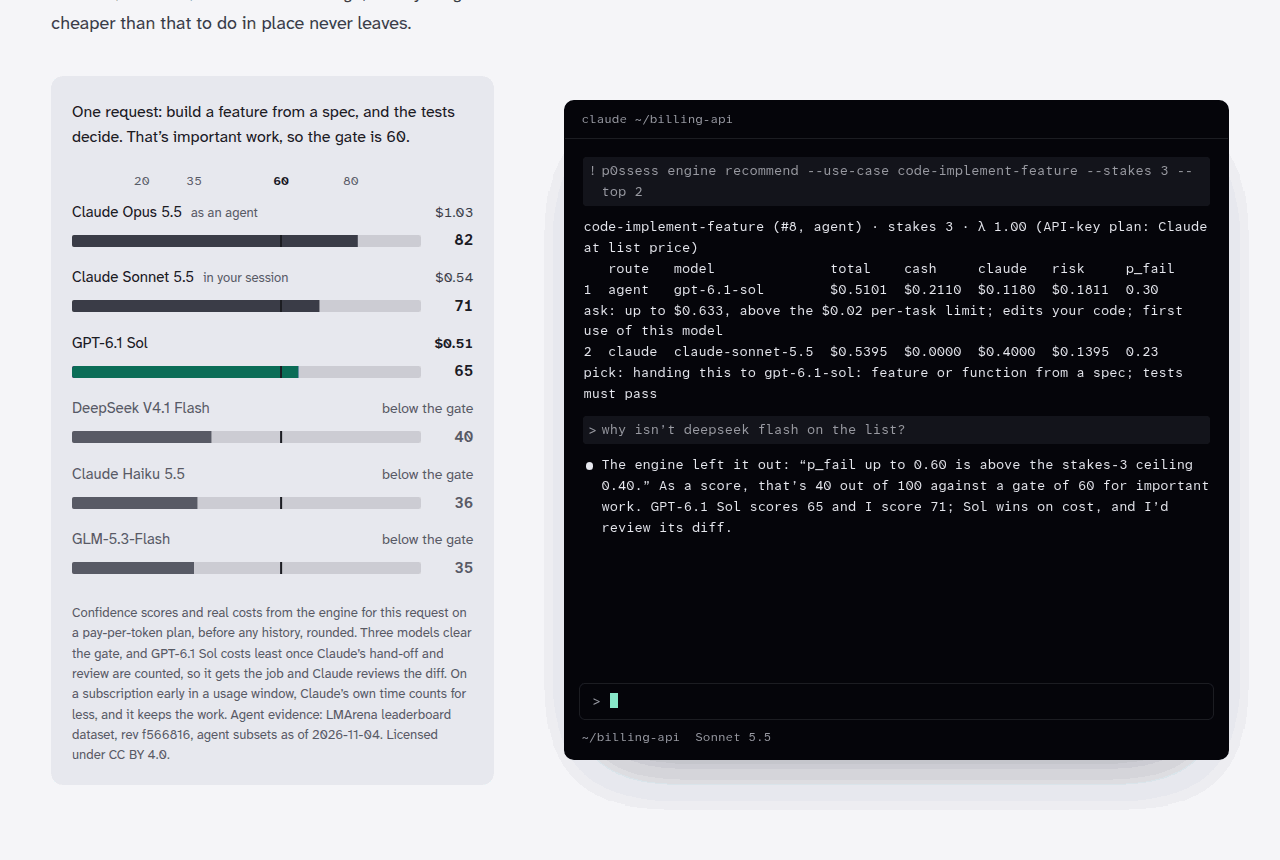
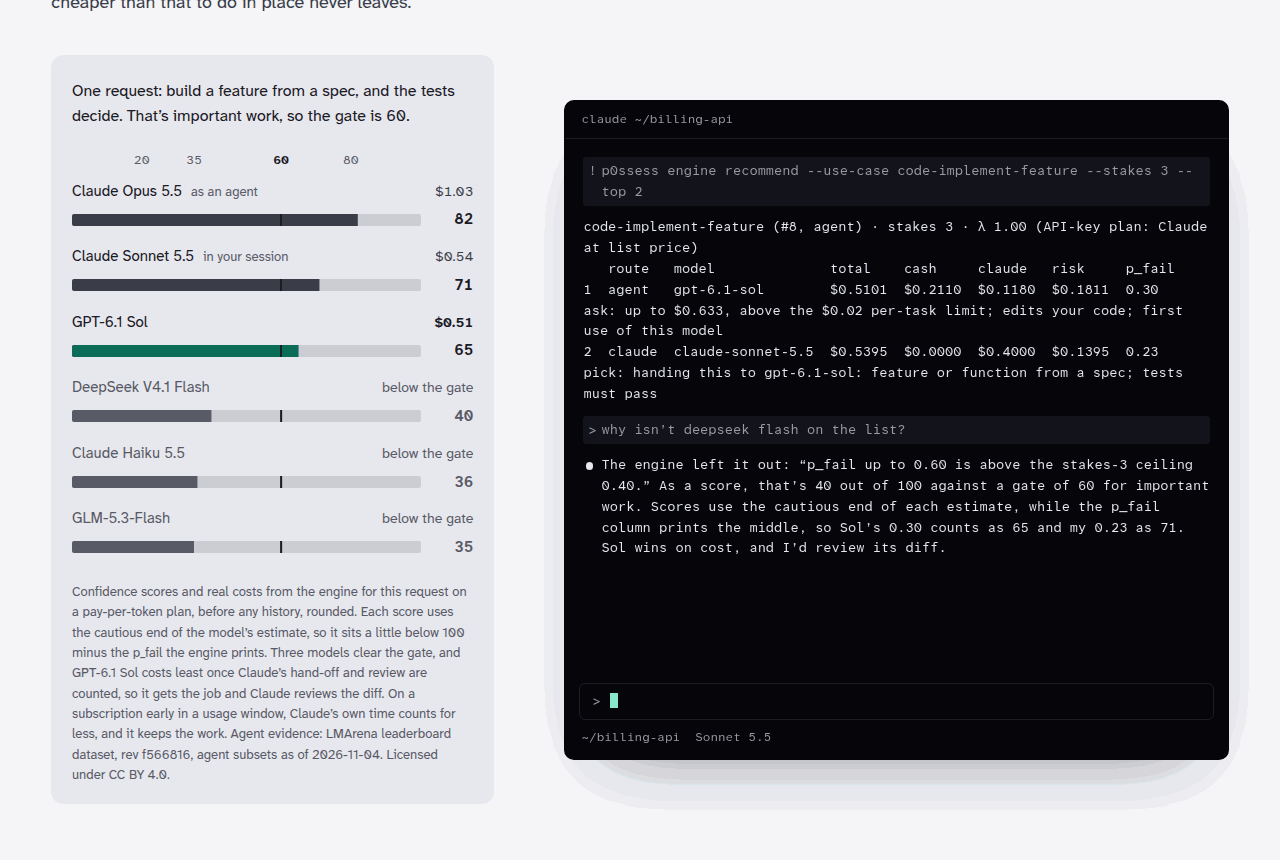
Website: say why engine scores sit below 100 minus p_fail
The chart and Claude's reply use the cautious end of each estimate; the
recommend table prints the middle. Claude's reply and the chart caption now
say so. shoot.py can retake single shots.

Changed region(s): [[0.0312, 0.0907, 0.375, 0.907], [0.4688, 0.5744, 0.9062, 0.6349], [0.0312, 0.0, 0.3125, 0.0302]]

diff --git a/site/index.html b/site/index.html
@@ -77,7 +77,7 @@
       <li class="fail"><span class="who">Claude Haiku 5.5</span><span class="track" aria-hidden="true"><svg viewBox="0 0 100 10" preserveAspectRatio="none"><rect class="fill" width="36" height="10"/><line class="gate-line" x1="60" x2="60" y1="0" y2="10" vector-effect="non-scaling-stroke"/></svg></span><span class="n">36</span><span class="cost">below the gate</span><span class="sr-only">below the gate</span></li>
       <li class="fail"><span class="who">GLM-5.3-Flash</span><span class="track" aria-hidden="true"><svg viewBox="0 0 100 10" preserveAspectRatio="none"><rect class="fill" width="35" height="10"/><line class="gate-line" x1="60" x2="60" y1="0" y2="10" vector-effect="non-scaling-stroke"/></svg></span><span class="n">35</span><span class="cost">below the gate</span><span class="sr-only">below the gate</span></li>
       </ol>
-      <figcaption id="gauge-cap">Confidence scores and real costs from the engine for this request on a pay-per-token plan, before any history, rounded. Three models clear the gate, and GPT-6.1 Sol costs least once Claude’s hand-off and review are counted, so it gets the job and Claude reviews the diff. On a subscription early in a usage window, Claude’s own time counts for less, and it keeps the work. Agent evidence: LMArena leaderboard dataset, rev f566816, agent subsets as of 2026-11-04. Licensed under CC BY 4.0.</figcaption>
+      <figcaption id="gauge-cap">Confidence scores and real costs from the engine for this request on a pay-per-token plan, before any history, rounded. Each score uses the cautious end of the model’s estimate, so it sits a little below 100 minus the p_fail the engine prints. Three models clear the gate, and GPT-6.1 Sol costs least once Claude’s hand-off and review are counted, so it gets the job and Claude reviews the diff. On a subscription early in a usage window, Claude’s own time counts for less, and it keeps the work. Agent evidence: LMArena leaderboard dataset, rev f566816, agent subsets as of 2026-11-04. Licensed under CC BY 4.0.</figcaption>
     </figure>
   </div>
   <figure class="scene" data-title="claude ~/billing-api" data-st="idle|" aria-labelledby="t-engine">
@@ -90,7 +90,7 @@
       <p class="l out c">2  claude  claude-sonnet-5.5  $0.5395  $0.0000  $0.4000  $0.1395  0.23</p>
       <p class="l out c">pick: handing this to gpt-6.1-sol: feature or function from a spec; tests must pass</p>
       <p class="l in">why isn’t deepseek flash on the list?</p>
-      <p class="l ai" data-d="900">The engine left it out: “p_fail up to 0.60 is above the stakes-3 ceiling 0.40.” As a score, that’s 40 out of 100 against a gate of 60 for important work. GPT-6.1 Sol scores 65 and I score 71; Sol wins on cost, and I’d review its diff.</p>
+      <p class="l ai" data-d="900">The engine left it out: “p_fail up to 0.60 is above the stakes-3 ceiling 0.40.” As a score, that’s 40 out of 100 against a gate of 60 for important work. Scores use the cautious end of each estimate, while the p_fail column prints the middle, so Sol’s 0.30 counts as 65 and my 0.23 as 71. Sol wins on cost, and I’d review its diff.</p>
     </div>
     <p class="foot"><span class="me">~/billing-api  Sonnet 5.5</span></p>
   </figure>

diff --git a/site/shoot.py b/site/shoot.py
@@ -13,6 +13,7 @@ root = Path(__file__).resolve().parent
 ap = argparse.ArgumentParser()
 ap.add_argument("--browser", default="/opt/brave.com/brave/brave")
 ap.add_argument("--out", default=str(root / "shots"))
+ap.add_argument("--only", default="", help="comma-separated shot names to take")
 ap.add_argument("--full", action="store_true", help="also save full-page phone captures")
 args = ap.parse_args()
 out = Path(args.out)
@@ -51,6 +52,8 @@ with sync_playwright() as p:
             if sw > vp["width"]:
                 log.append(f"{scheme}-{name}: horizontal overflow, scrollWidth {sw}")
             for i, sid in enumerate(ids):
+                if args.only and sid not in args.only.split(","):
+                    continue
                 if sid == "top":
                     pg.evaluate("scrollTo(0, 0)")
                 elif sid == "end":
